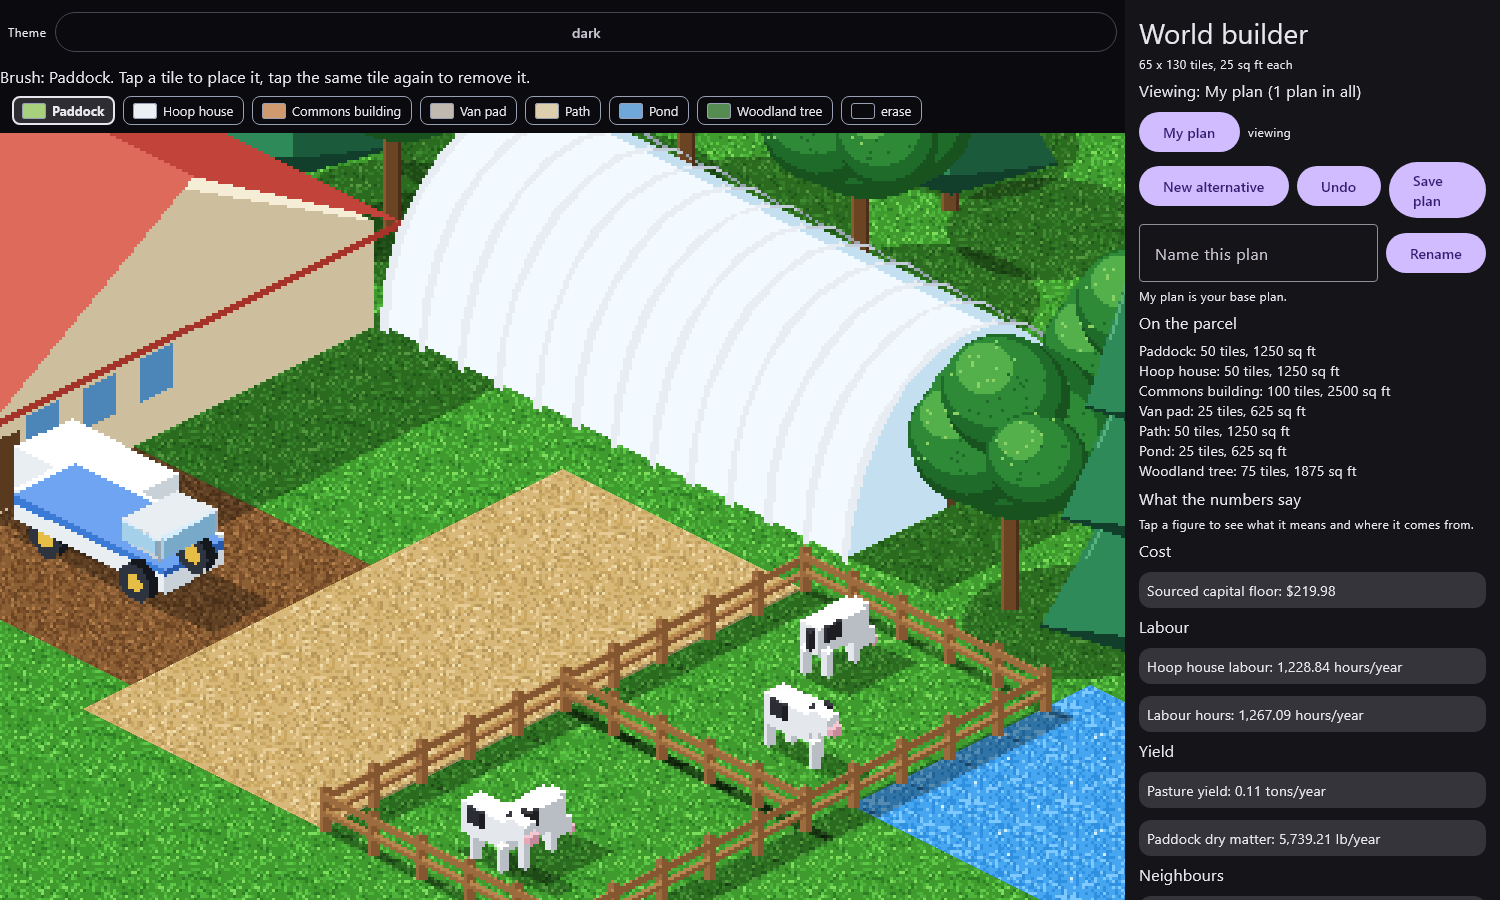
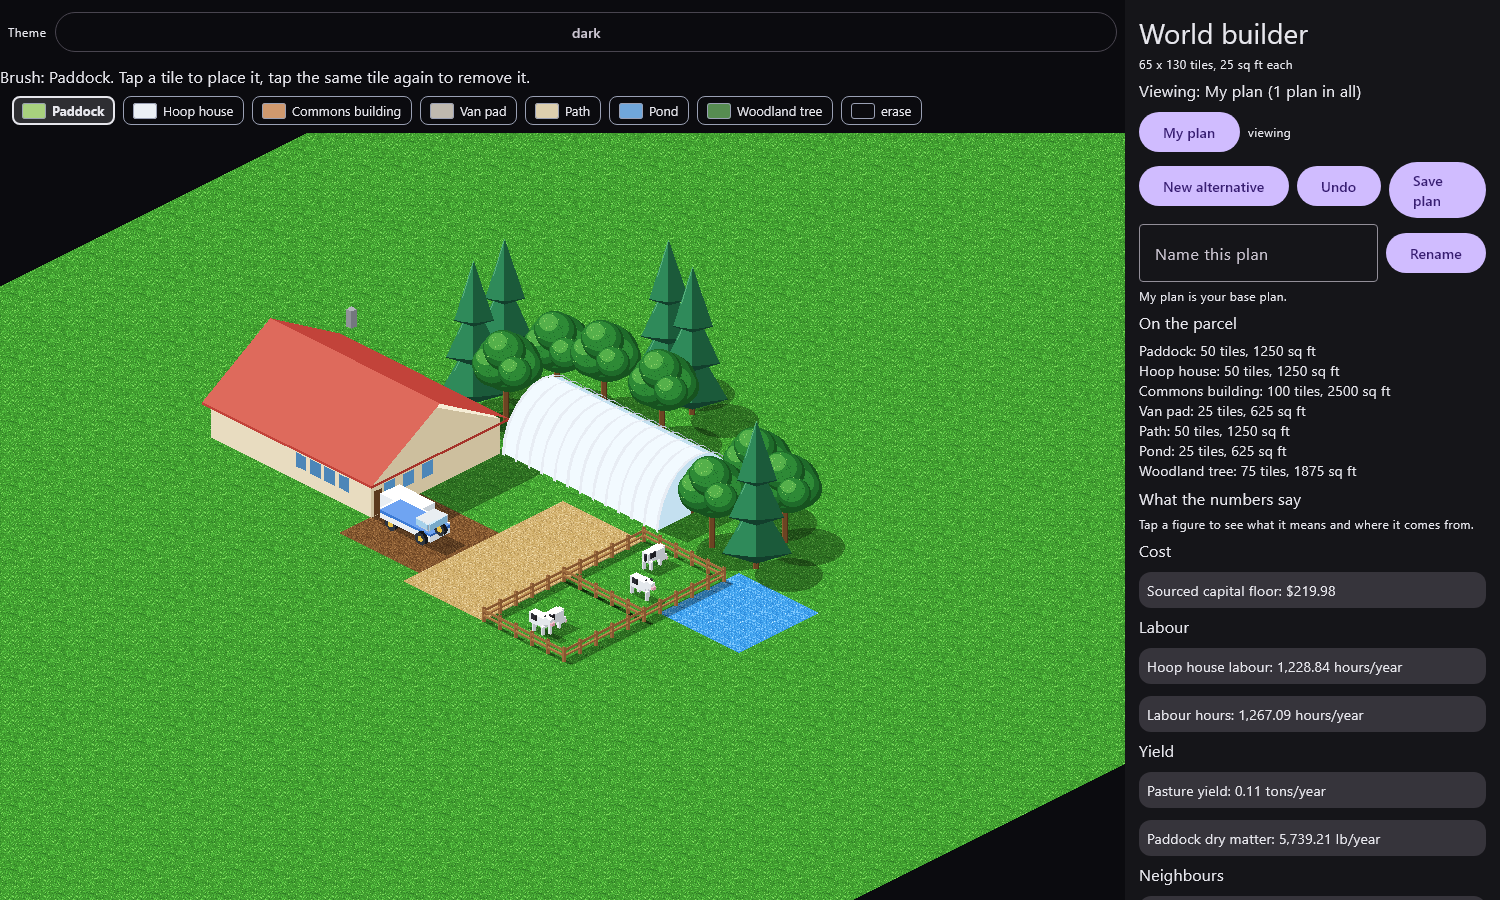
docs(review): hero screens open at the fit zoom: the whole five-acre homestead, and the whole lidar strip with its ten trees at 25 ft art
The five-acre parcel is larger than the view, so it opens at 1x centred
on the placed plan, the framing the earlier zoomed-out shot had; that
shot is dropped as identical. The lidar sample opens with no centre and
fits its 5 by 32 strip at 1x with trees drawn from the 25 ft rung; the
earlier 3x close-up and its 5 ft-art zoom-out are dropped.

diff --git a/packages/kotlin-world-builder/src/desktopTest/kotlin/ai/factoredui/worldbuilder/BuilderWalkthroughTest.kt b/packages/kotlin-world-builder/src/desktopTest/kotlin/ai/factoredui/worldbuilder/BuilderWalkthroughTest.kt
@@ -29,7 +29,6 @@ import androidx.compose.ui.test.onNodeWithTag
 import androidx.compose.ui.test.onNodeWithText
 import androidx.compose.ui.test.onRoot
 import androidx.compose.ui.test.performClick
-import androidx.compose.ui.test.performMouseInput
 import androidx.compose.ui.test.performTouchInput
 import androidx.compose.ui.test.runDesktopComposeUiTest
 import java.io.File
@@ -47,13 +46,9 @@ private const val MAX_FIT_SCALE = 2f
 private const val TERRAIN_REVIEW = "terrain-2026-10-06"
 private const val SCENE_REVIEW = "scene-2026-10-06"
 private const val ART_REVIEW = "art-2026-10-06"
-private const val ZOOM_OUT_WHEEL_STEPS = 12
 private const val FIVE_FOOT_ROWS = 130
 private const val FIVE_FOOT_TILE_MM = 1524.0
-private const val LIDAR_ROWS = 32
-private const val LIDAR_TILE_MM = 7620.0
 private val FARM_FOCUS = 32.0 to 59.0
-private val LIDAR_FOCUS = 0.7 to 4.4
 private val FARM_PLAN = listOf(
     Triple("woodland_tree", 21, 51), Triple("woodland_tree", 26, 47), Triple("woodland_tree", 37, 52),
     Triple("hoop_house", 26, 52),
@@ -210,11 +205,6 @@ class BuilderWalkthroughTest {
         ImageIO.write(onRoot().captureToImage().toAwtImage(), "PNG", File(directory, "$name.png"))
     }
 
-    private fun DesktopComposeUiTest.zoomOutToOneTimes() {
-        onNodeWithTag("world:map").performMouseInput { moveTo(center); repeat(ZOOM_OUT_WHEEL_STEPS) { scroll(1f) } }
-        waitForIdle()
-    }
-
     private fun centredOn(groundX: Double, groundY: Double, rows: Int, tileMm: Double) =
         mapOf("centre_mm" to listOf(groundX * tileMm, (rows - groundY) * tileMm))
 
@@ -229,17 +219,12 @@ class BuilderWalkthroughTest {
         val view = centredOn(FARM_FOCUS.first, FARM_FOCUS.second, FIVE_FOOT_ROWS, FIVE_FOOT_TILE_MM)
         open("dark", worldFile = File("examples/parcel-five-acre-5ft.world.json"), extra = mapOf("look" to "pixel", "view_state" to view), plan = ::placeFarmPlan)
         artShot("01-five-acre-plan-pixel")
-        zoomOutToOneTimes()
-        artShot("03-five-acre-plan-pixel-1x")
     }
 
     @Test
     fun theLidarTreesInThePixelLook() = runDesktopComposeUiTest(WINDOW_WIDTH_PX, WINDOW_HEIGHT_PX) {
-        val view = centredOn(LIDAR_FOCUS.first, LIDAR_FOCUS.second, LIDAR_ROWS, LIDAR_TILE_MM)
-        open("dark", "worlds/parcel-lidar-sample.world.json", extra = mapOf("look" to "pixel", "view_state" to view))
+        open("dark", "worlds/parcel-lidar-sample.world.json", extra = mapOf("look" to "pixel"))
         artShot("02-lidar-trees-pixel")
-        zoomOutToOneTimes()
-        artShot("04-lidar-trees-pixel-1x")
     }
 
     @Test
